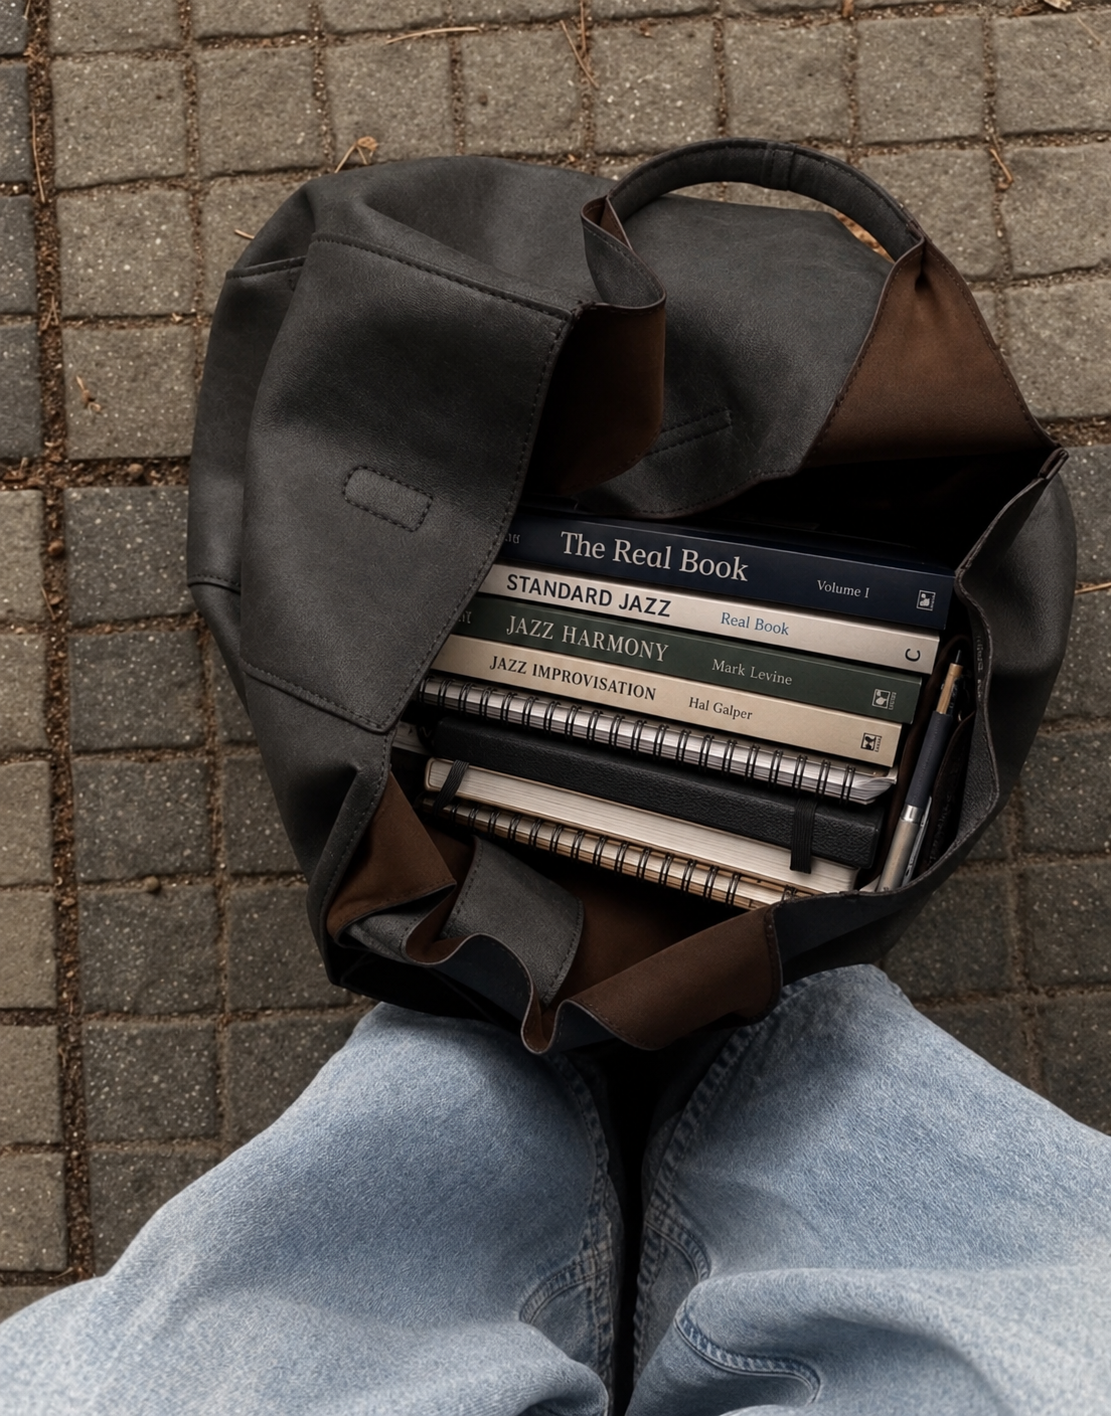
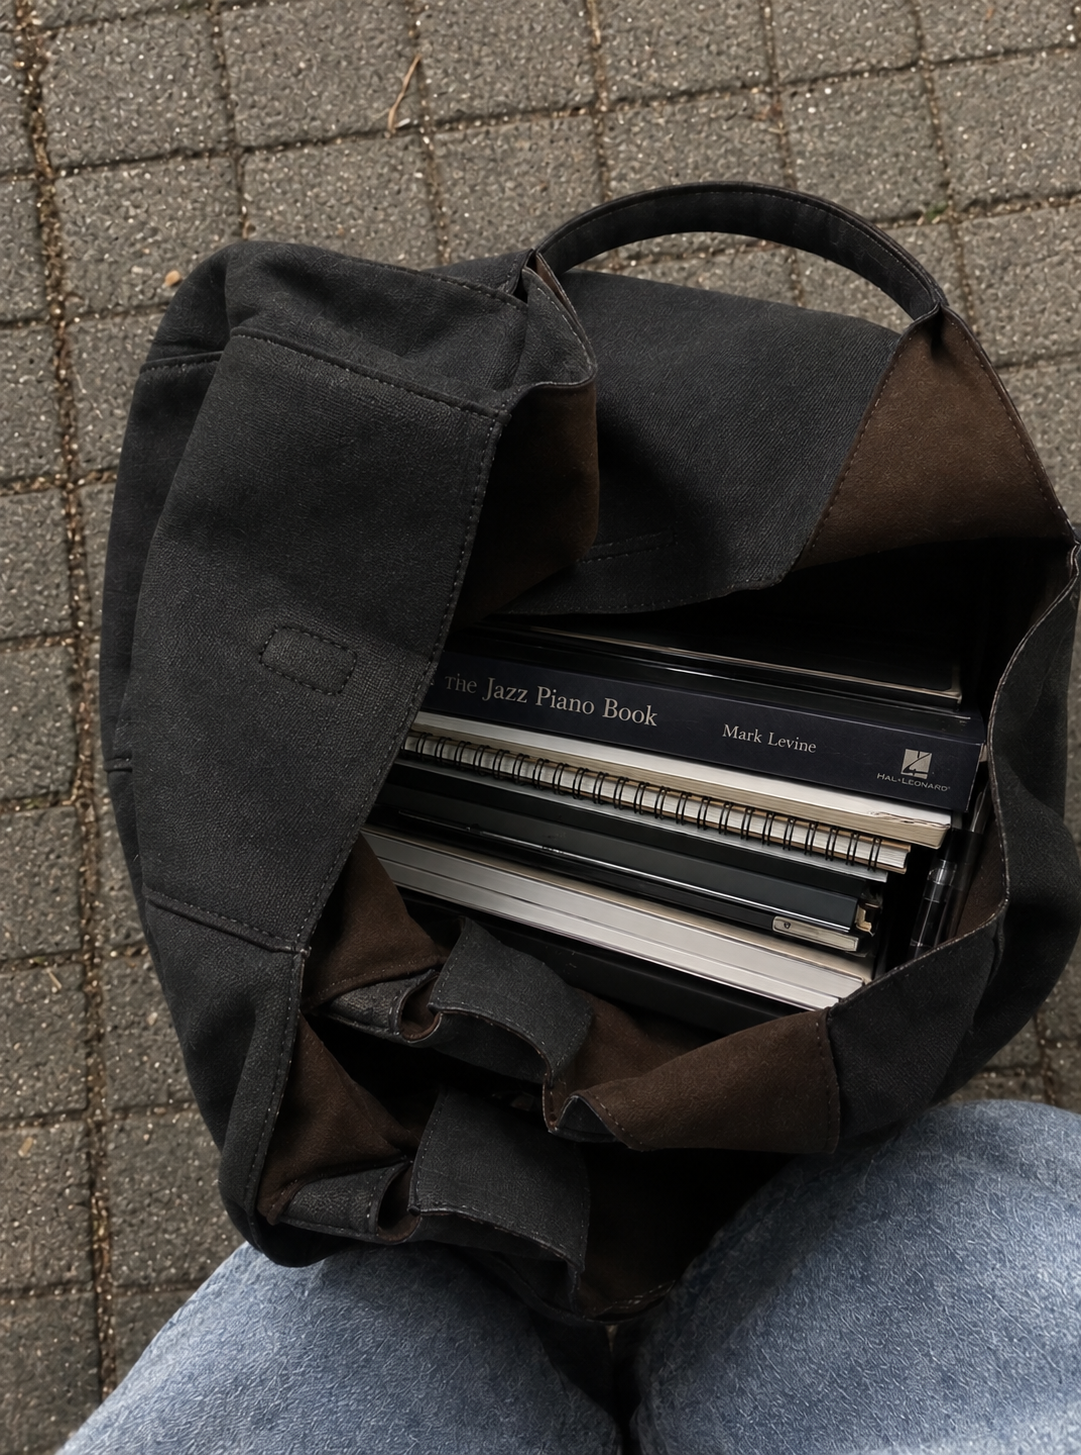
73일: 4장 사진 교체
Claude-Session: https://claude.ai/code/session_01HGbZvgMeYrbU7mY8bwfjyb

diff --git a/output/노트_남은날짜/deck.html b/output/노트_남은날짜/deck.html
@@ -54,7 +54,7 @@
 <div class="m">12.31</div><div class="y"><b>올해 시작한 게<br>하나 있는 사람</b></div><div class="n">다시,<br>"내년엔 꼭"</div>
 </div>
 <div class="ft"><span>73일</span><span>03 / 07</span></div></section><section class="s" id="c4"><div class="hd"><span>ENOCH MUSIC ACADEMY</span><span>YOUR OWN SOUND</span></div>
-<img src="../../images/기타/라이프_가방악보_01.png" style="position:absolute;left:96px;top:150px;width:888px;height:640px;object-fit:cover;object-position:50% 50%;display:block;filter:saturate(.85)">
+<img src="../../images/기타/라이프_가방악보_01.png" style="position:absolute;left:96px;top:150px;width:888px;height:640px;object-fit:cover;object-position:50% 56%;display:block;filter:saturate(.85)">
 <div class="k a" style="left:96px;top:830px">Your Own Sound</div>
 <div class="h a" style="left:92px;top:875px">잘하려고가 아니라,<br><em>나다워지려고</em></div>
 <div class="p a" style="left:96px;right:96px;top:1080px;font-size:28px">누군가는 달리고, 누군가는 책장을 넘겨요. 그리고 누군가는 악기를 꺼냅니다.<br>일 말고, 내가 고른 것 하나.</div>

diff --git a/output/노트_남은날짜/gen.py b/output/노트_남은날짜/gen.py
@@ -78,7 +78,7 @@ S.append(f"""<section class="s" id="c3">{HD("SAME DAYS, DIFFERENT DECEMBER")}
 {FT(3)}</section>""")
 # 04 취향
 S.append(f"""<section class="s" id="c4">{HD("YOUR OWN SOUND")}
-<img src="../../images/기타/라이프_가방악보_01.png" style="position:absolute;left:96px;top:150px;width:888px;height:640px;object-fit:cover;object-position:50% 50%;display:block;filter:saturate(.85)">
+<img src="../../images/기타/라이프_가방악보_01.png" style="position:absolute;left:96px;top:150px;width:888px;height:640px;object-fit:cover;object-position:50% 56%;display:block;filter:saturate(.85)">
 <div class="k a" style="left:96px;top:830px">Your Own Sound</div>
 <div class="h a" style="left:92px;top:875px">잘하려고가 아니라,<br><em>나다워지려고</em></div>
 <div class="p a" style="left:96px;right:96px;top:1080px;font-size:28px">누군가는 달리고, 누군가는 책장을 넘겨요. 그리고 누군가는 악기를 꺼냅니다.<br>일 말고, 내가 고른 것 하나.</div>
